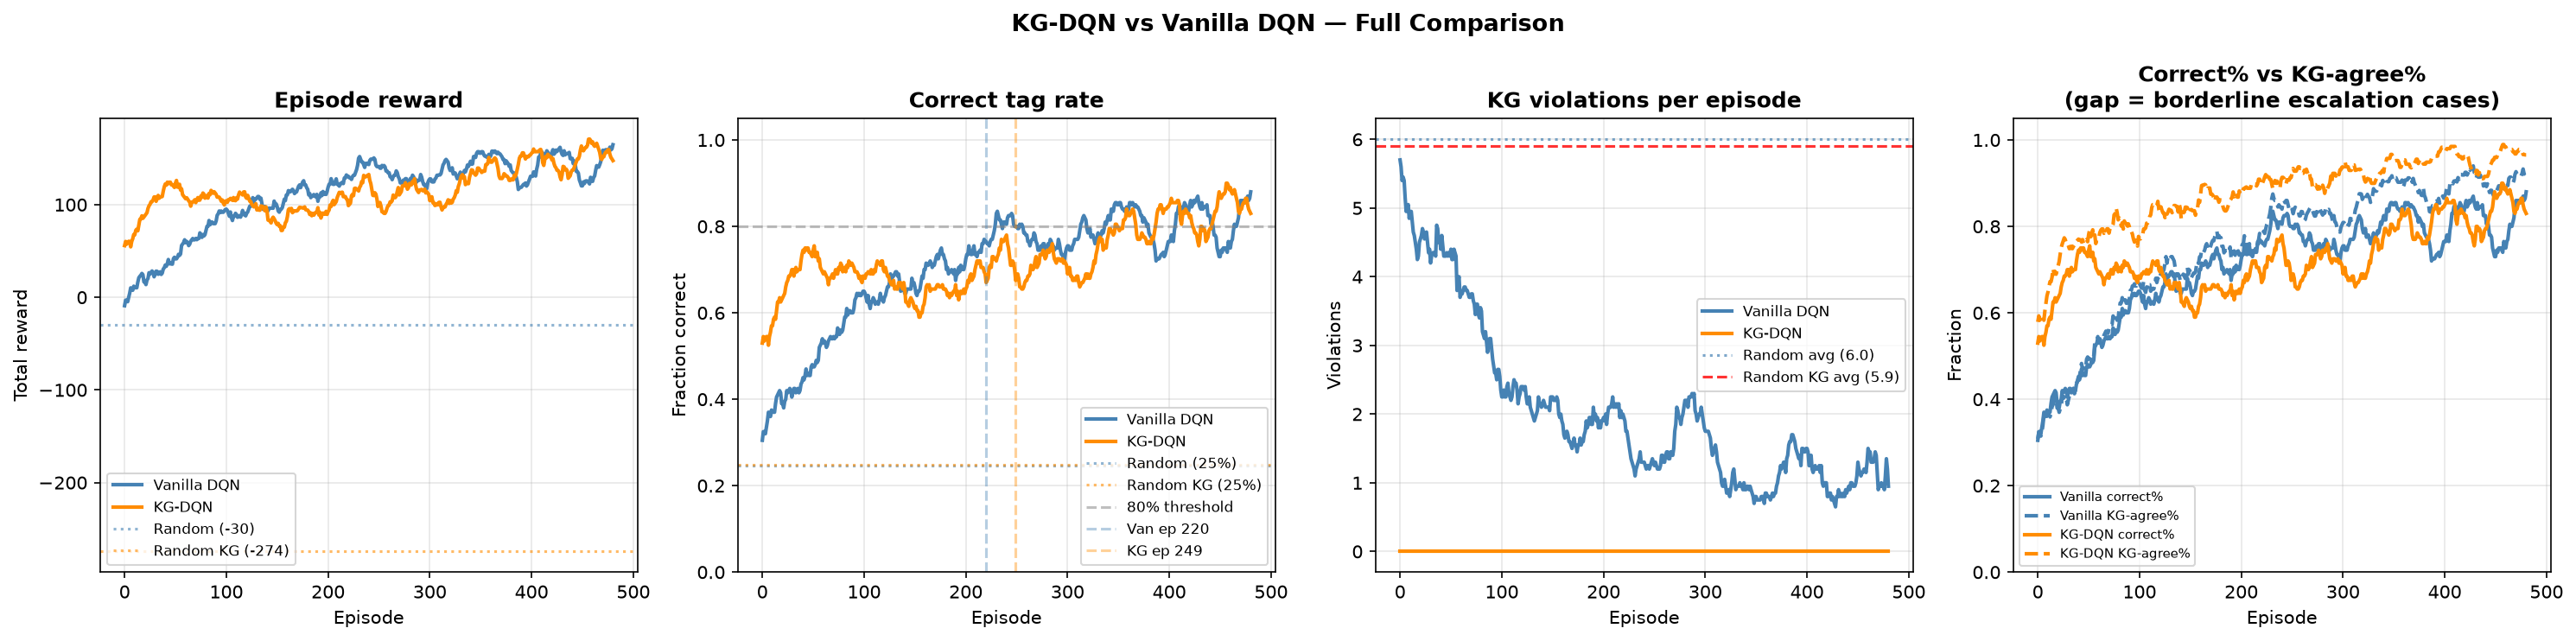
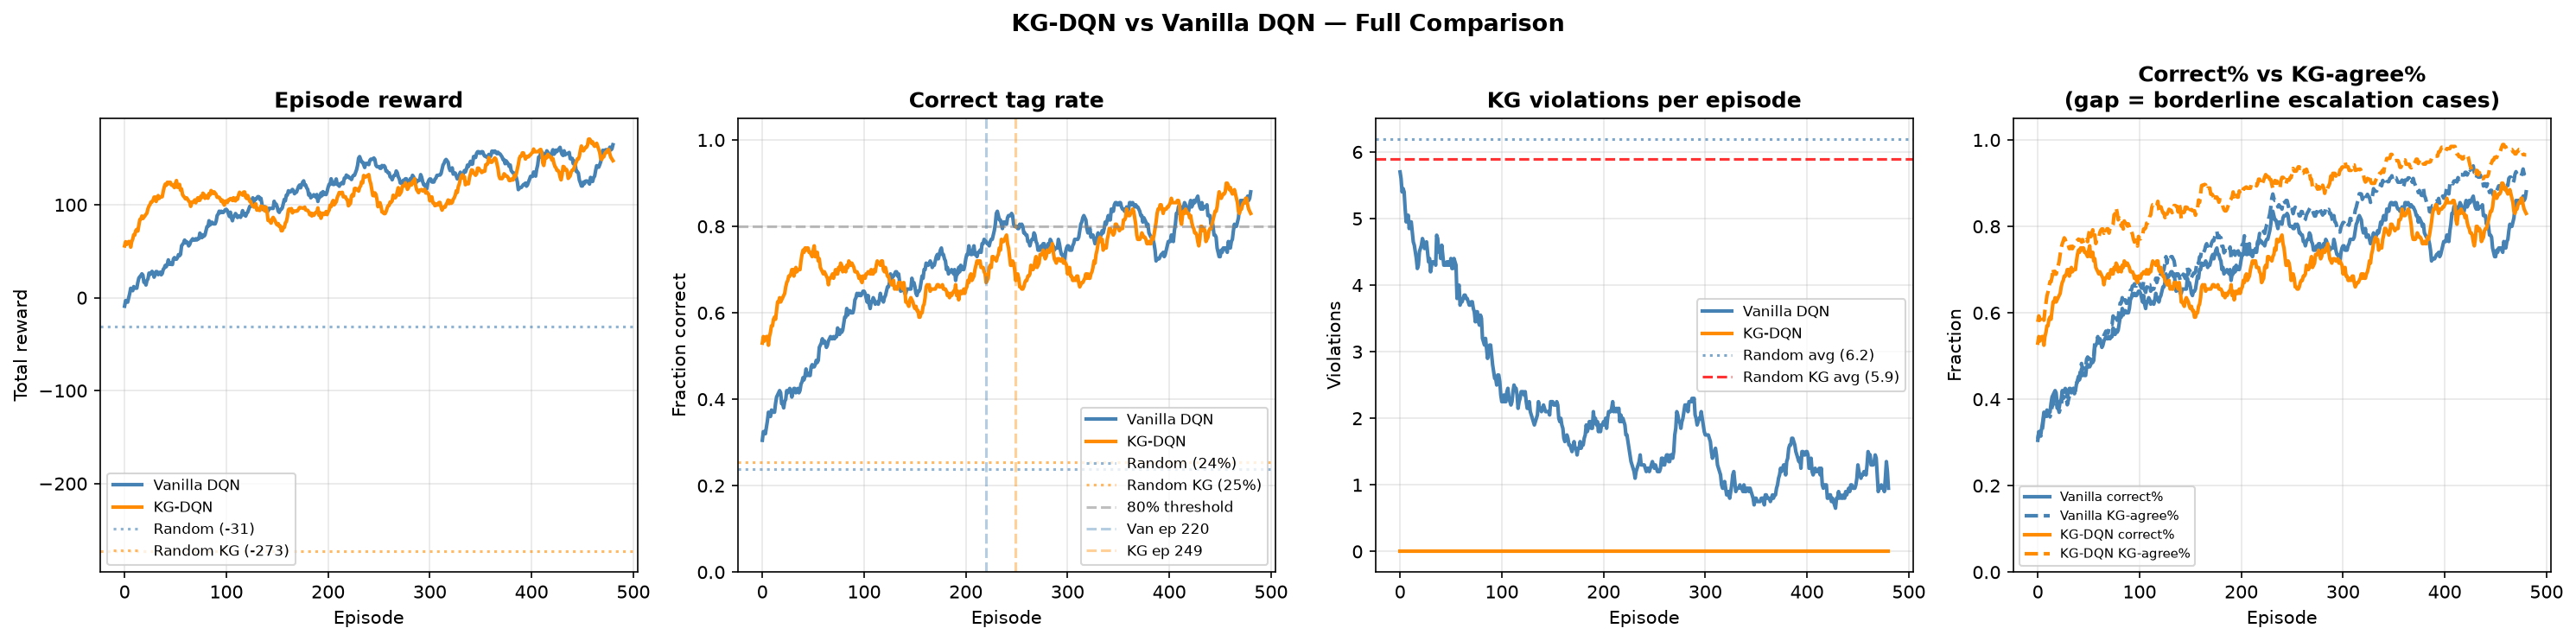
updated readme

diff --git a/README.MD b/README.MD
@@ -1,0 +1,297 @@
+# KG-DQN: A Knowledge-Graph-Constrained Reinforcement Learning Agent for Mass Casualty Triage
+
+This repository contains the code, ontology, trained checkpoints, and evaluation results for a short paper submitted to **KG-NeSy 2026** (Third International Workshop on Knowledge Graphs and Neurosymbolic AI, co-located with ISWC 2026, Bari, Italy).
+
+> **In one sentence:** we encode the START mass-casualty triage protocol (plus CBRN decontamination rules) as a reasoner-validated OWL/SWRL ontology, and use it to *structurally* block a Deep Q-Network agent from ever taking a clinically unsafe action — instead of just penalizing unsafe actions and hoping the agent learns to avoid them.
+
+---
+
+## Table of Contents
+
+- [Why this project exists](#why-this-project-exists)
+- [The core idea, explained simply](#the-core-idea-explained-simply)
+- [Repository structure](#repository-structure)
+- [Setup](#setup)
+- [How to run everything, in order](#how-to-run-everything-in-order)
+- [File-by-file guide: what each file does and what its output means](#file-by-file-guide-what-each-file-does-and-what-its-output-means)
+- [Results folder](#results-folder)
+- [Citing this work](#citing-this-work)
+
+---
+
+## Why this project exists
+
+In a mass casualty incident (MCI) — a disaster, attack, or accident with more patients than available medical resources — first responders use the **START protocol** to quickly sort patients into four categories: **Minor**, **Delayed**, **Immediate**, or **Expectant**. When the incident also involves chemical, biological, radiological, or nuclear (CBRN) contamination, patients additionally need **decontamination before treatment**.
+
+A reinforcement learning (RL) agent can, in principle, learn this sorting task from simulated experience. But a standard ("vanilla") RL agent has **no guarantee** it won't take a clinically wrong action — especially for rare patient types it barely saw during training. In a domain like triage, a wrong action means misallocating scarce resources away from a patient who could have been saved. That's not an acceptable failure mode, no matter how rare.
+
+This project builds a **symbolic safety layer**: an OWL/RDF ontology that encodes the START rules and CBRN rules as formal logic, validated by an actual automated reasoner (not just hand-written if/else code), which is then used to **mask out** (make unselectable) any action the agent could take that would violate the protocol. The RL agent literally cannot pick a forbidden action — it's not that it's been trained to avoid it, it *physically isn't an option*.
+
+## The core idea, explained simply
+
+Think of it like this: a vanilla RL agent is a student who has only ever been *graded down* for wrong answers — given enough practice, they usually learn to avoid mistakes, but nothing stops them from occasionally making one, especially on questions they rarely see. Our agent is a student taking a multiple-choice test where the genuinely wrong answers have been **physically removed from the page** for certain rare/critical scenarios. They can still choose poorly among what's left, but they can never select an answer that was never offered.
+
+We compare two agents trained on identical patient scenarios:
+- **Vanilla DQN** — a standard Deep Q-Network. Wrong/unsafe actions are heavily penalized (–50 reward) but still *executable*.
+- **KG-DQN** — the same network architecture, but unsafe actions are removed from its choices entirely via the ontology-derived mask.
+
+We then test both **exhaustively** — not just on random episodes, but on *every one of the 80 possible patient profiles* the environment can generate — across three different random training seeds, to see whether the safety guarantee actually holds everywhere, and whether it costs anything in accuracy.
+
+---
+
+## Repository structure
+
+```
+.
+├── ontology/
+│   └── triage_v2.rdf              # The knowledge graph itself (OWL/RDF + SWRL rules)
+├── src/
+│   ├── env/
+│   │   ├── dqn.py                 # Neural network architecture + replay buffer
+│   │   ├── mci_env.py             # The Gymnasium RL environment (the "world" the agent acts in)
+│   │   └── patient_generator.py   # Generates random simulated patients
+│   ├── kg/
+│   │   └── constraint_guard.py    # Bridge between the ontology and Python; runs the reasoner
+│   └── eval/
+│       └── exhaustive_eval.py     # Defines and runs the 80-profile exhaustive test
+├── train/
+│   ├── train_dqn.py               # The training loop for both agents
+│   └── random_agent.py            # Sanity-check baseline (acts completely randomly)
+├── tests/
+│   ├── tests_kg.py                # Unit tests for the ontology/reasoner logic alone
+│   ├── tests_hazard.py            # Unit tests for CBRN hazard/decontamination logic
+│   ├── tests_env.py               # Tests the Gymnasium environment wiring
+│   ├── tests_dqn.py               # Quick single-seed training + comparison (dev smoke test)
+│   └── tests_robustness.py        # THE paper's main experiment: multi-seed, exhaustive evaluation
+├── results/                       # All generated outputs land here (created automatically)
+│   ├── *.pt                       # Trained model checkpoints
+│   ├── *.csv                      # Per-profile evaluation results
+│   └── *.png                      # Figures
+├── paper/
+│   ├── main.tex                   # The KG-NeSy 2026 short paper
+│   └── references.bib             # Bibliography
+└── README.md                      # This file
+```
+
+---
+
+## Setup
+
+```bash
+conda create -n ontologies python=3.10
+conda activate ontologies
+pip install gymnasium numpy torch owlready2 matplotlib
+```
+
+> **Note on the reasoner:** `constraint_guard.py` uses Pellet via `owlready2`. Pellet requires a Java runtime (JRE/JDK) to be installed and on your `PATH`, since Pellet itself is a Java program that `owlready2` calls out to.
+
+All scripts assume they are run from the **repository root** (e.g., `python tests/tests_robustness.py`, not from inside the `tests/` folder), since several files resolve paths like `ontology/triage_v2.rdf` relative to the working directory.
+
+---
+
+## How to run everything, in order
+
+If you're setting this up fresh, run things in this order — each step builds on the last:
+
+1. **`python tests/tests_kg.py`** — confirms the ontology and reasoner are working correctly, in isolation, before anything else touches them.
+2. **`python tests/tests_hazard.py`** — confirms the CBRN decontamination logic is wired correctly.
+3. **`python tests/tests_env.py`** — confirms the RL environment itself behaves correctly (action masking, rewards, multi-step decontamination).
+4. **`python tests/tests_dqn.py`** *(optional, quick)* — a fast single-seed sanity check that training runs end-to-end without crashing, and produces a first comparison plot.
+5. **`python tests/tests_robustness.py`** — **this is the real experiment.** Trains both agents three times (three random seeds), evaluates them exhaustively, and produces every number and figure reported in the paper. This takes a while — it trains four full models (Vanilla + KG-DQN, × 3 seeds, plus the budget-ablation re-evaluation).
+
+Steps 1–3 are fast (seconds to low minutes). Step 5 is the long one — budget real time for it.
+
+---
+
+## File-by-file guide: what each file does and what its output means
+
+### `ontology/triage_v2.rdf`
+
+This is **not Python code** — it's the knowledge graph itself, written in OWL/RDF (a formal logic format), editable visually in a tool called Protégé. It defines:
+- The four START categories (**Minor**, **Delayed**, **Immediate**, **Expectant**) as logical definitions over five patient properties (ambulation, breathing, pulse, mental status, decontamination status) — not hardcoded rules, but formal class definitions a reasoner can derive conclusions from.
+- Four CBRN hazard types (Chemical, Biological, Radiological, Nuclear), each with a required number of decontamination steps.
+- SWRL rules that *independently* compute a recommended treatment action and severity score, used to cross-check the formal class definitions agree with each other.
+
+You won't run this file directly — every other file in `src/kg/` and `src/env/` reads it.
+
+---
+
+### `src/kg/constraint_guard.py`
+
+This is the bridge between the ontology file and your Python code. On load, it:
+1. Reads `triage_v2.rdf`.
+2. Runs the **Pellet reasoner** once, over all 32 possible binary patient profiles, computing both the formal-logic classification *and* the SWRL-rule-based classification, and checking they agree (if they don't, it raises an error immediately rather than silently using bad data).
+3. Caches the result into a fast lookup table, so every later check during training/evaluation is just a dictionary lookup rather than re-running the reasoner each time.
+
+Exposes functions like `check_action()` (is this action allowed for this patient?) and `get_valid_actions()` (the full mask of allowed actions), used by the environment on every single step.
+
+---
+
+### `src/env/patient_generator.py`
+
+Generates one random simulated patient: random ambulatory/breathing/pulse/mental-status/decontamination status, plus a random CBRN hazard if contaminated, plus the "correct" ground-truth triage tag computed from the same START logic (with 15% of patients having their label randomly escalated, to simulate real-world clinician override/uncertainty).
+
+---
+
+### `src/env/mci_env.py`
+
+The actual **Gymnasium environment** — the simulated "world." Each episode presents 10 patients in sequence. The agent has 7 possible actions per step (4 tagging actions that end a patient's turn, plus `open_airway`, `treat`, `decontaminate` which keep the same patient active for up to 4 actions). If `use_kg_constraint=True`, the action mask from `constraint_guard.py` is enforced — the agent cannot select a blocked action at all. If `False` (Vanilla mode), a blocked action is allowed but penalized –50.
+
+---
+
+### `src/env/dqn.py`
+
+The neural network itself: a small feed-forward network (11 inputs → 64 → 64 → 7 outputs) that estimates how good each of the 7 actions is in a given patient state, plus a replay buffer (a memory of past experience used to stabilize training, standard in DQN).
+
+---
+
+### `src/eval/exhaustive_eval.py`
+
+Defines the **80 enumerable patient profiles** (16 combinations of the 4 binary vital signs, × 5 contamination states: clean or one of 4 hazards) and runs a trained model against every single one, deterministically, recording whether it got the correct tag and whether it ever violated the ontology along the way. This is the rigorous evaluation — not a random sample, the *entire* space of possible initial patients.
+
+---
+
+### `train/train_dqn.py`
+
+The training loop. Standard epsilon-greedy DQN with a target network. The one important design choice: every 20 episodes, it checks the current network against the full 80-profile exhaustive set (not just a rolling average of recent training episodes) and only saves the checkpoint if that score improved. This prevents accidentally keeping a lucky-but-bad snapshot just because training happened to end at the right/wrong moment.
+
+---
+
+### `tests/tests_kg.py`
+
+**Run:** `python tests/tests_kg.py`
+
+Eight isolated unit tests confirming the ontology + reasoner correctly encode each START rule and the CBRN decontamination rule, with no RL agent involved at all — pure symbolic logic checks.
+
+**📸 [ terminal_outputs/tests_kg.png — terminal output of `tests_kg.py`]**
+
+**What the output means:** each line printed is `PASS scenario N: <description>`, ending in `All 8 scenarios passed.` Every `PASS` confirms one specific clinical rule is being enforced correctly by the reasoner — for example, "ambulatory patient" confirms a walking patient can only be tagged Minor, and "CBRN Rule 5" confirms `treat` is blocked on a contaminated patient until decontamination completes. If any line says `FAIL` instead of `PASS`, or the script crashes with an `AssertionError`, it means the ontology itself has a logical inconsistency — this must be fixed before trusting any later result, since every other file in this repo depends on this file's correctness.
+
+---
+
+### `tests/tests_hazard.py`
+
+**Run:** `python tests/tests_hazard.py`
+
+Confirms the CBRN hazard/decontamination-duration wiring specifically: that nuclear hazard requires 3 decontamination steps, chemical requires 1, that `treat` stays blocked until decontamination finishes and becomes valid immediately after, and that a patient with no assigned hazard type correctly falls back to a default duration.
+
+**📸 [SCREENSHOT 2 GOES HERE — terminal output of `tests_hazard.py`]**
+
+**What the output means:** each printed line states an expected value and the actual computed value side by side (e.g., `Nuclear hazard decon duration: 3 (expect 3)`), followed by `All hazard-type wiring checks passed.` This confirms the multi-step decontamination mechanic — the part of this project that makes the CBRN extension genuinely sequential rather than a single static lookup — is working correctly end to end.
+
+---
+
+### `tests/tests_env.py`
+
+**Run:** `python tests/tests_env.py`
+
+Tests the Gymnasium environment itself: correct observation shape, correct action-space size, that the KG-constrained mode actually blocks wrong actions (re-confirming `tests_kg.py`'s findings, but now through the environment rather than the ontology layer directly), and a full multi-step decontaminate-then-treat sequence.
+
+**📸 [SCREENSHOT 3 GOES HERE — terminal output of `tests_env.py`]**
+
+**What the output means:** look for `Episode done: N raw env.step() calls for 10 patients` — this confirms a full 10-patient episode completes correctly. The `Valid action mask: [...]` line shows the actual boolean array of which of the 7 actions are currently allowed for one patient. `Ambulatory patient tagged Immediate → reward: -50.0` confirms that, exactly as expected, the KG penalty fires when the environment is asked to do something the ontology forbids. The decontamination-flow section at the end shows `decontaminated` flipping from `False` to `True` exactly when the required number of decontaminate actions accumulates, and `progress` climbing from 0.0 to 1.0 — confirming the multi-step CBRN mechanic works correctly inside the actual environment, not just in isolated logic.
+
+---
+
+### `tests/tests_dqn.py`
+
+**Run:** `python tests/tests_dqn.py`
+
+A **quick, single-seed** end-to-end smoke test: trains both a random agent and both DQN variants once, prints a summary comparison table, and saves one comparison figure. This is meant for fast iteration during development — not the numbers reported in the paper.
+
+**📸 [SCREENSHOT 4 GOES HERE — terminal output of `tests_dqn.py`, the final summary table + convergence section]**
+
+**What the output means:** the summary table compares four agents (Random, Random+KG, Vanilla DQN, KG-DQN) across Reward, Correct%, and Violations. The key thing to look for: **KG-DQN's Violations column should always read exactly 0**, regardless of training quality — this is the masking guarantee, visible from the very first run. The "Convergence to 80% correct tagging" section reports which training episode each agent first crossed 80% accuracy — useful for the training-dynamics figure, but not the paper's headline safety/accuracy numbers, which come from `tests_robustness.py` instead.
+
+**📸 [SCREENSHOT 5 GOES HERE — the `results/full_comparison.png` figure this script generates]**
+
+**What this figure means:** four panels, left to right — episode reward over training, correct-tag rate over training, KG violations per episode (Vanilla descends slowly but never reaches zero; KG-DQN is flat at zero from the start), and the gap between raw accuracy and KG-agreement rate (reflecting the 15% noisy-label patients in the training data).
+
+---
+
+### `tests/tests_robustness.py`
+
+**Run:** `python tests/tests_robustness.py`
+
+**This is the main event — the actual experiment reported in the paper.** For each of three random seeds (42, 43, 44):
+1. Trains a fresh Vanilla DQN and a fresh KG-DQN from scratch (500 episodes each).
+2. Evaluates both exhaustively against all 80 patient profiles.
+3. Confirms (via an `assert`) that KG-DQN's violation rate is exactly zero.
+
+After all three seeds, it reports the **multi-seed summary** (mean ± standard deviation accuracy and violation rate for each agent — the headline numbers in Table 1 of the paper), then does a **deep dive on the first seed only**: saves per-profile CSVs, generates a rarity-vs-correctness figure, lists every failing patient profile for both agents with full step-by-step action traces, and finally re-evaluates the same trained KG-DQN checkpoint with a larger action budget (8 instead of 4) — with no retraining — to check whether its remaining failures are a budget artifact or a genuine gap.
+
+This takes the longest to run of anything in this repo, since it trains 6 full models total (2 agents × 3 seeds) plus the extra budget re-evaluation.
+
+**📸 [SCREENSHOT 6 GOES HERE — terminal output: the three "SEED" training blocks]**
+
+**What this output means:** for each seed, you'll see two long blocks of `EP N | Reward: ... | Correct: ... | KG-agree: ... | Violations: ... | Eps: ... | Exhaustive-acc: ... (viol ...)` lines — one block for Vanilla, one for KG-DQN. The `Exhaustive-acc` and `(viol ...)` numbers are the trustworthy ones (checked against all 80 profiles every 20 episodes); the `Correct`/`Violations` numbers earlier in the line are noisier, since they're from just that one 10-patient episode. **Critically, KG-DQN's `Violations` column reads `0` on literally every single line, from episode 0 onward** — this is not something it learned, it's a structural guarantee of the masking. Each seed block ends with `Saved BEST checkpoint (exhaustive 80-profile accuracy X.XX) to results/...pt` — confirming the script kept the best-performing snapshot across all 26 checkpoints it evaluated, not just whatever existed when training happened to stop.
+
+**📸 [SCREENSHOT 7 GOES HERE — terminal output: the "MULTI-SEED SUMMARY" table]**
+
+**What this output means:** this table is the paper's Table 1. It reports, across the three seeds, mean ± standard deviation accuracy and violation rate for both agents. **KG-DQN's violation rate should read `0.0% ± 0.0%`** — zero average, zero spread, because it's mathematically guaranteed rather than empirically observed. Vanilla's numbers will have real variance — this is expected and is itself part of the point: an unconstrained agent's safety is incidental to how training happened to go, not guaranteed.
+
+**📸 [SCREENSHOT 8 GOES HERE — terminal output: the "Vanilla DQN failure cases" and "KG-DQN failure cases" listings]**
+
+**What this output means:** this is the failure-mode analysis (Section 4.2 of the paper). Each line lists one specific patient profile that an agent got wrong or violated the KG on, with its prior probability (how common that exact patient type is in the real-world training distribution — note how tiny these numbers are, e.g. `p=0.0014`, confirming these are genuinely the rarest cases). For Vanilla, look at the `correct_tag` vs `final_tag` columns — a mismatch here is a genuine wrong-answer mistake. For KG-DQN, look for `final_tag=None` — this means the agent ran out of its 4-action budget without ever tagging the patient (a "timeout"), which is a structurally safer failure than Vanilla's wrong-tag failures, since no forbidden action was ever taken.
+
+**📸 [SCREENSHOT 9 GOES HERE — terminal output: the full action-by-action traces for KG-DQN's failures]**
+
+**What this output means:** for each KG-DQN failure, you get a literal step-by-step replay: which action was taken, what reward it received, and whether it was KG-valid. This is your explainability evidence — instead of saying "the agent stalled," you can point to the exact sequence (e.g., repeatedly selecting `open_airway` after it already took effect once, paying a redundancy penalty, then running out of budget) and explain precisely why it failed.
+
+**📸 [SCREENSHOT 10 GOES HERE — terminal output: the "Budget-sensitivity check" section]**
+
+**What this output means:** this re-tests the *same already-trained* KG-DQN model (no retraining at all) with double the action budget, to check if more "thinking time" alone would have fixed the failures above. The conclusion line at the end tells you the verdict directly: `0/N previously-failing profiles became correct purely from a larger action budget` means the problem is a genuine gap in what the model learned, not just an unfairly tight time limit.
+
+**📸 [SCREENSHOT 11 GOES HERE — the `results/robustness_stress_test.png` figure]**
+
+**What this figure means:** two panels. Left: correctness as a function of how rare a patient profile is (rarest on the left) — both agents tend to dip on the rarest profiles. Right: violation rate as a function of rarity — **KG-DQN's line should be flat at zero across the entire plot**, while Vanilla's line rises specifically in the rare region. This is the clearest single visual proof that the safety guarantee holds everywhere, not just on average.
+
+---
+
+### `train/random_agent.py`
+
+**Run:** `python train/random_agent.py`
+
+A pure sanity-check baseline: an agent that picks actions completely at random, with and without KG masking, over 50 episodes each. Useful as a "floor" reference — if a trained agent doesn't clearly beat this, something is wrong with training.
+
+---
+
+## Results folder
+
+After running `tests_robustness.py`, your `results/` folder will contain:
+
+| File | What it is |
+|---|---|
+| `vanilla_dqn_seed{42,43,44}.pt` / `kg_dqn_seed{42,43,44}.pt` | The best trained model weights for each agent, each seed |
+| `vanilla_dqn.pt` / `kg_dqn.pt` | Copies of the seed-42 ("primary seed") checkpoints, for any script that expects a fixed filename |
+| `robustness_vanilla.csv` / `robustness_kg.csv` | Per-profile results (all 80 rows) for the primary seed — every profile's correct tag, predicted tag, violation flag, etc. |
+| `robustness_kg_budget8.csv` | Same, but for the budget-sensitivity re-evaluation |
+| `robustness_stress_test.png` | The rarity-vs-correctness/violation figure (Figure 1 in the paper) |
+| `full_comparison.png` | The training-dynamics figure from `tests_dqn.py` (Figure 2 in the paper) |
+
+These CSVs and PNGs are what's referenced in the paper's acknowledgments section as supporting evidence for every reported number.
+
+---
+
+## Citing this work
+
+If you use this code or ontology, please cite:
+
+```bibtex
+@inproceedings{fatima2026kgdqn,
+  author    = {Fatima, Maham and Tolg, Boris},
+  title     = {A Triage Ontology-Guided Knowledge Graph for Constraining
+               Reinforcement Learning Decisions in Mass Casualty Incidents},
+  booktitle = {Proceedings of the 3rd International Workshop on Knowledge
+               Graphs and Neurosymbolic AI (KG-NeSy 2026), co-located with
+               ISWC 2026},
+  year      = {2026},
+  address   = {Bari, Italy}
+}
+```
+
+---
+
+## Acknowledgments
+
+Developed as part of doctoral research at HAW Hamburg, Faculty of Life Sciences, in collaboration with ongoing work on AI-supported maritime CBRN emergency response.